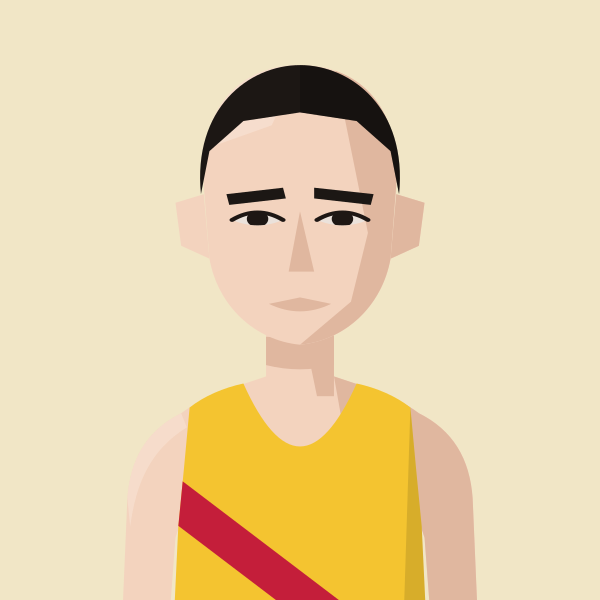
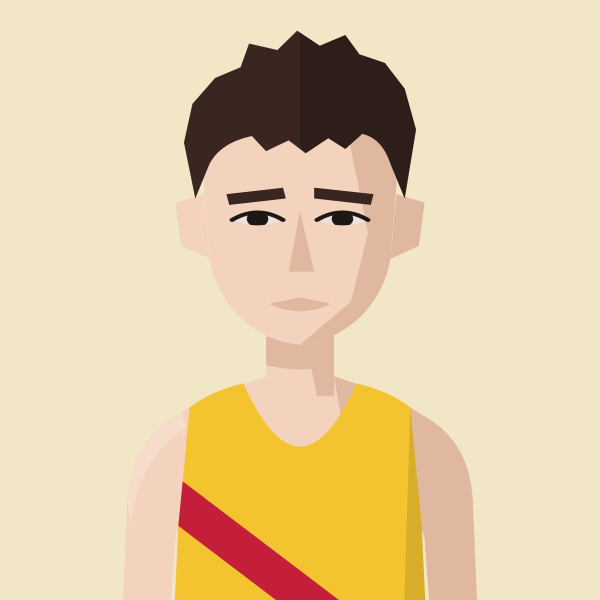
Stuart McCallum: messy tufty fringe
Claude-Session: https://claude.ai/code/session_01MgmDWhFqnSSnP4iBLKXUZC

Changed region(s): [[0.3, 0.03, 0.69, 0.33], [0.51, 0.3, 0.63, 0.36], [0.36, 0.3, 0.48, 0.36]]

diff --git a/files/index.html b/files/index.html
@@ -577,7 +577,7 @@ add('kitty-shepherd-cross','BEL','Kitty Shepherd-Cross','Kitty Shepherd Cross');
 return m;})();
 // Athlete header figure: superstar portrait if we have one, else a grey runner in the club vest, else the plain vest icon
 // Changes whenever any portrait changes (set by tools/build_og.py), so browsers fetch fresh images instead of old cached ones
-const PORTRAIT_V='f833525c';
+const PORTRAIT_V='f53444af';
 const AthletePortrait=({name,club,w,fill,onClick})=>{const[failed,setFailed]=useState(false);const pk=PORTRAITS[normalizeNameForCompare(name).replace(/\s*\([^)]*\)$/,'')];const file=pk&&pk.club===club?pk.file:null;const src=file?`/portraits/athletes/${file}.svg?v=${PORTRAIT_V}`:PORTRAIT_CLUBS.has(club)?`/portraits/clubs/${club.replace(/\//g,'').replace(/&/g,'and')}.svg?v=${PORTRAIT_V}`:null;if(!src||failed)return<div onClick={onClick} className={onClick?'cursor-pointer':''}><ClubShield club={club} size={w}/></div>;const h=Math.round(w*148/126),ih=Math.round(w*1.4);if(fill)return<div onClick={onClick} className="cursor-pointer" style={{alignSelf:'stretch',minHeight:h,aspectRatio:'126 / 148',flexShrink:0,position:'relative',borderRadius:4,overflow:'hidden'}}><img src={src} alt={file?`Portrait of ${name.replace(/\s*\([^)]*\)$/,'')}`:`Runner in ${CLUBS[club]?.name||club} vest`} style={{position:'absolute',top:0,left:0,display:'block',width:'100%',height:'auto'}} onError={()=>setFailed(true)}/></div>;return<div style={{width:w,height:h,borderRadius:4,overflow:'hidden',flexShrink:0}}><img src={src} alt={file?`Portrait of ${name.replace(/\s*\([^)]*\)$/,'')}`:`Runner in ${CLUBS[club]?.name||club} vest`} width={w} height={ih} style={{display:'block',width:w,height:ih}} onError={()=>setFailed(true)}/></div>;};
 const getClubVestSvg=(club)=>{
   const p="M3 0 L6 0 Q7 4 10 5 Q13 4 14 0 L17 0 L17 20 L3 20 Z";

diff --git a/tools/gen_portraits.py b/tools/gen_portraits.py
@@ -126,6 +126,7 @@ HAIR_BACK["longloose"] = '<path d="M58,90 C55,52 80,34 100,34 C120,34 145,52 142
 HAIR["cropround"] = '<path d="M65,100 C62,60 82,40 100,40 C118,40 138,60 135,100 L132,86 C131,74 126,66 116,63 C108,61 104,63 100,66 C96,63 92,61 84,63 C74,66 69,74 68,86 Z"/>'
 HAIR["croprecederound"] = '<path d="M65,100 C62,60 82,40 100,40 C118,40 138,60 135,100 L132,84 C131,67 126,57 119,55 C111,54 106,60 100,60 C94,60 89,54 81,55 C74,57 69,67 68,84 Z"/>'
 HAIR["tuftrecede"] = '<path d="M65,100 L62,80 L66,62 L72,50 L80,44 L84,34 L93,38 L99,28 L106,36 L114,31 L119,40 L128,44 L134,56 L138,74 L135,100 L132,84 C131,67 126,57 119,55 C111,54 106,60 100,60 C94,60 89,54 81,55 C74,57 69,67 68,84 Z"/>'
+HAIR["messyfringe"] = '<path d="M63,102 L59,76 L62,58 L70,46 L79,41 L82,30 L92,33 L99,24 L107,31 L116,26 L121,35 L130,39 L137,51 L141,70 L137,102 L132,86 Q129,74 122,72 L116,79 L110,74 L102,81 L96,75 L88,80 L83,73 Q72,76 68,86 Z"/>'
 FACIAL = {
     "shortbeard": '<path d="M66,112 L74,124 L84,146 L116,146 L126,124 L134,112 L134,180 L66,180 Z" opacity=".6"/><path d="M86,141 L100,138 L114,141 L113,146 L100,143.5 L87,146 Z" opacity=".7"/>',
     "mostubble": '<path d="M66,112 L74,124 L84,146 L116,146 L126,124 L134,112 L134,180 L66,180 Z" opacity=".32"/><path d="M84,141 L100,137 L116,141 L117,150 L112,147 L100,144 L88,147 L83,150 Z"/>',
@@ -381,7 +382,7 @@ save("hair_topknot", figure("HOL", skin=2, hair="topknot", hair_colour="mid brow
 save("downie", figure("BEL", skin=1, hair="quiff", hair_colour="blonde"))
 save("ogden", figure("SLH", skin=1, hair="crop", hair_colour="dark brown"))
 save("ogden_grey", figure("SLH", "grey"))
-save("mccallum", figure("H/W", skin=1, hair="crop", hair_colour="black"))
+save("mccallum", figure("H/W", skin=1, hair="messyfringe", hair_colour="#3A2620"))
 save("penney", figure("H/W", skin=1, hair="quiff", hair_colour="dark brown"))
 save("dempsey", figure("THH", skin=1, hair="croppeak", hair_colour="blonde"))
 save("hart", figure("BEL", skin=1, hair="tousled", hair_colour="light brown"))
